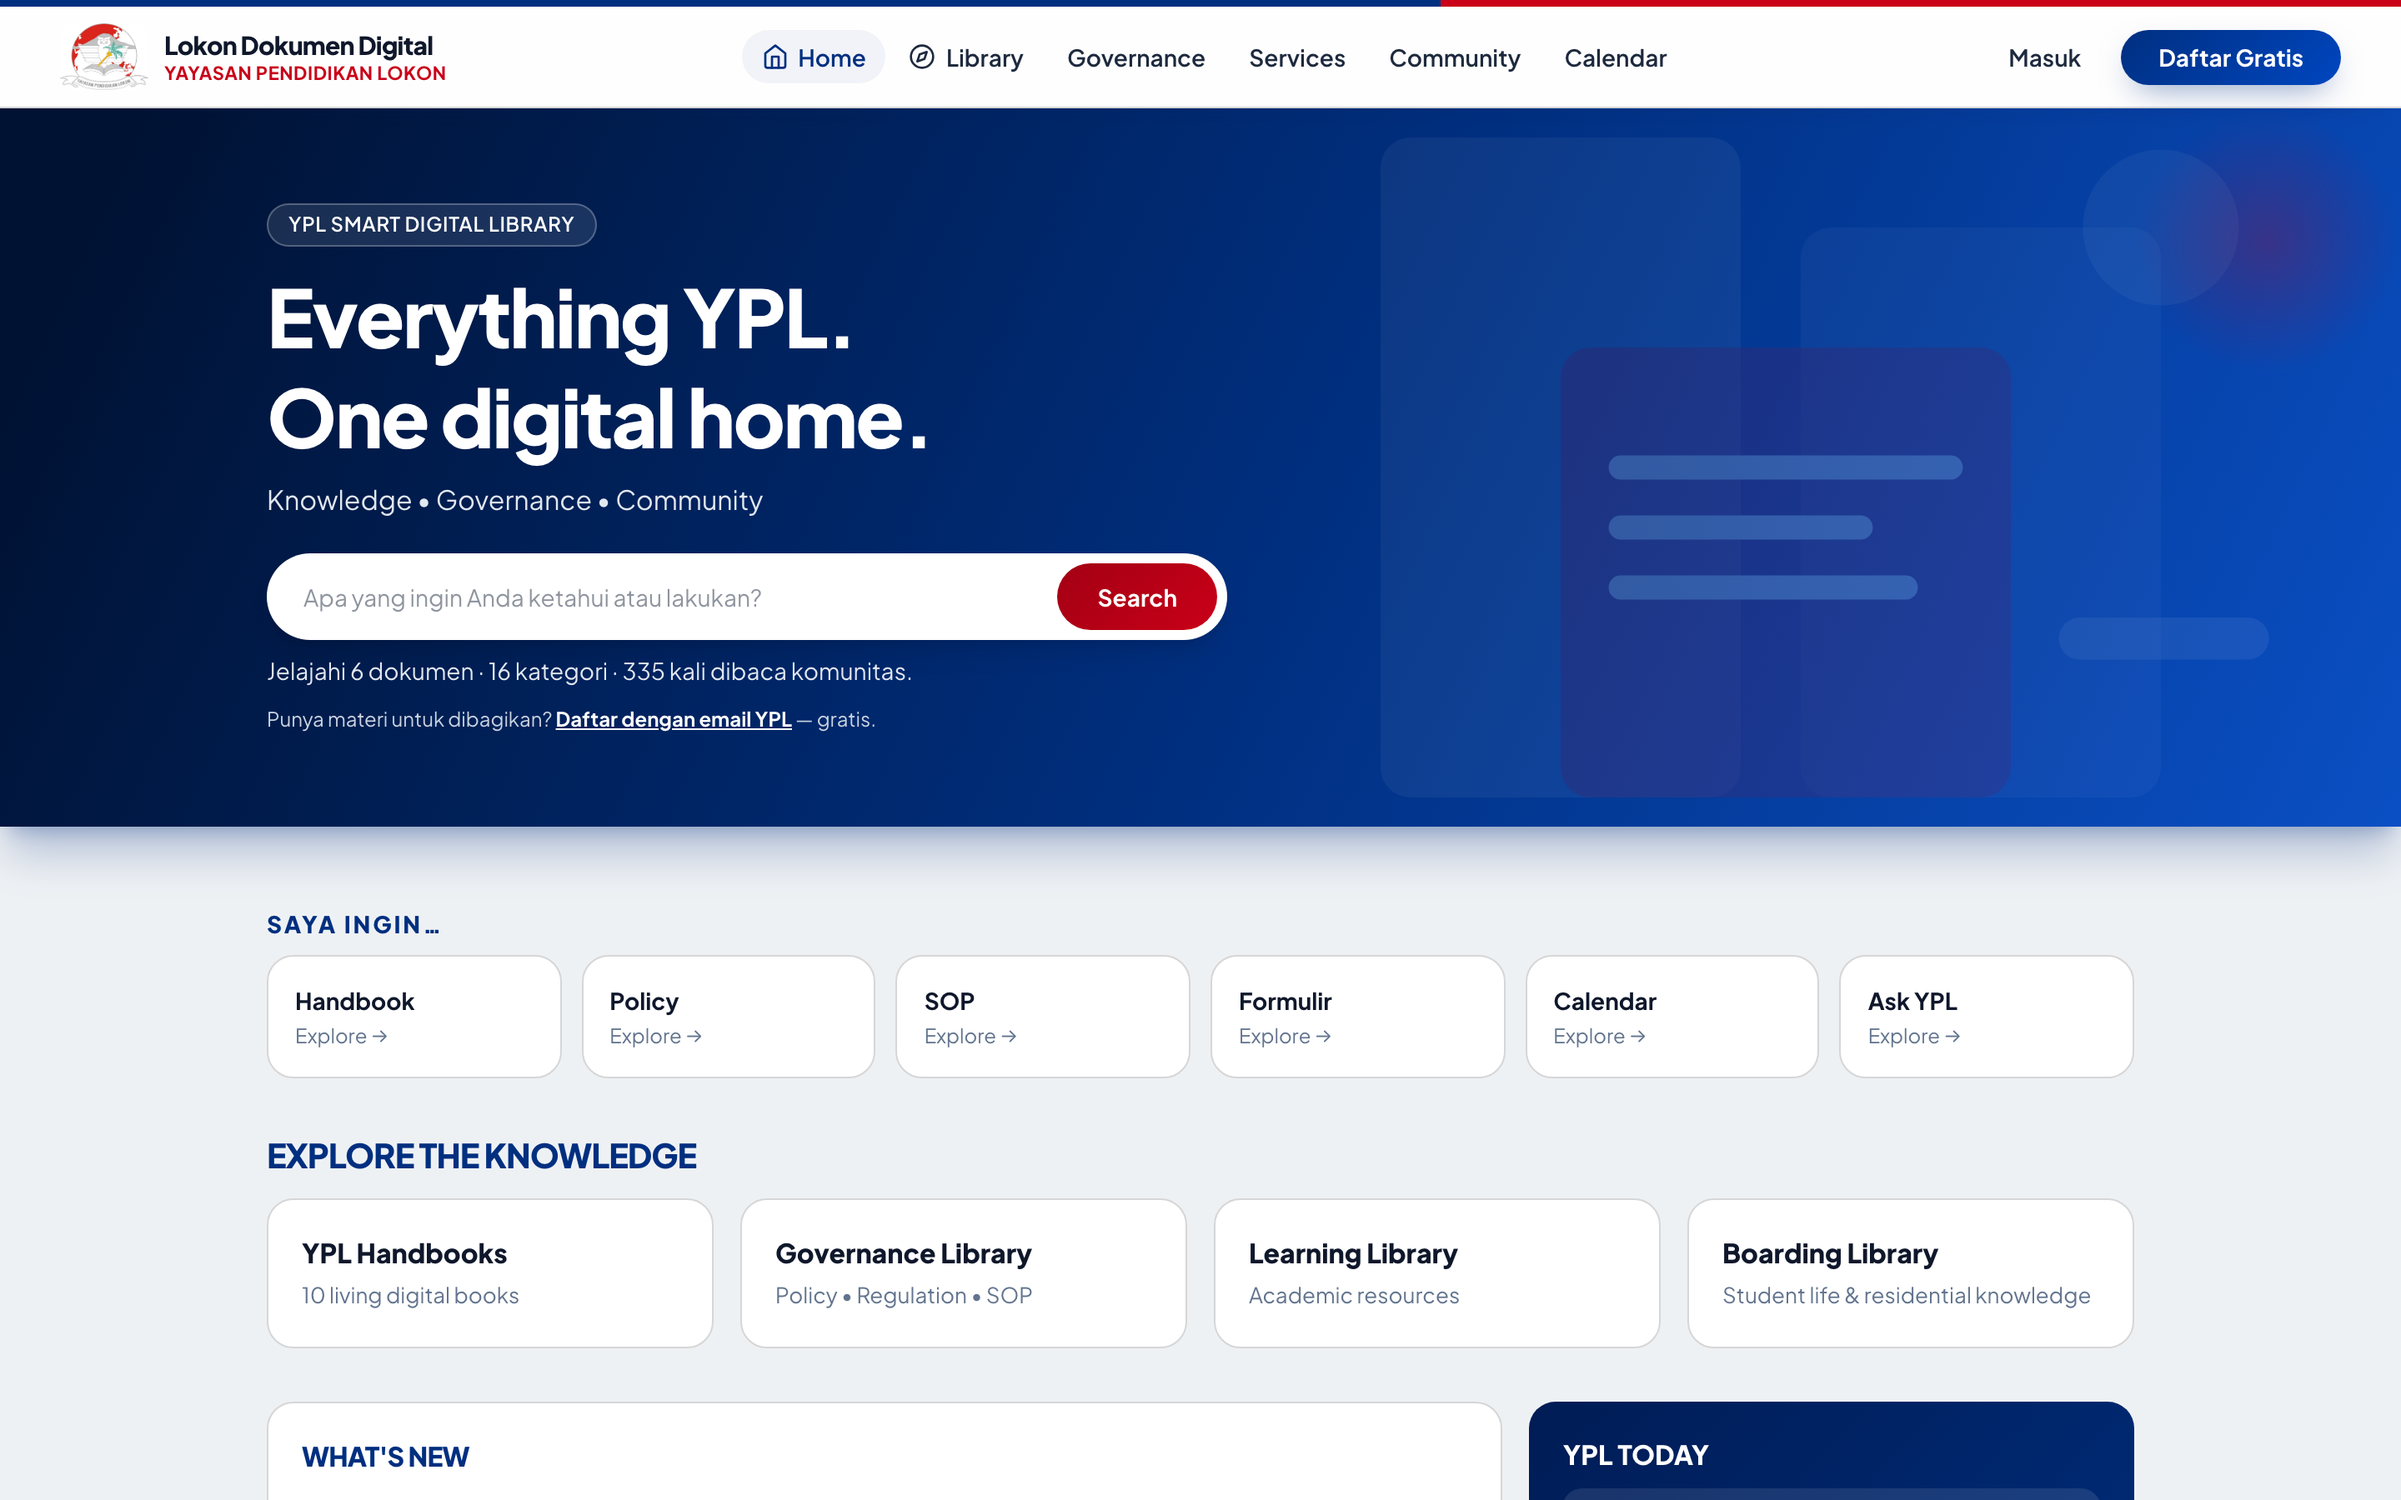
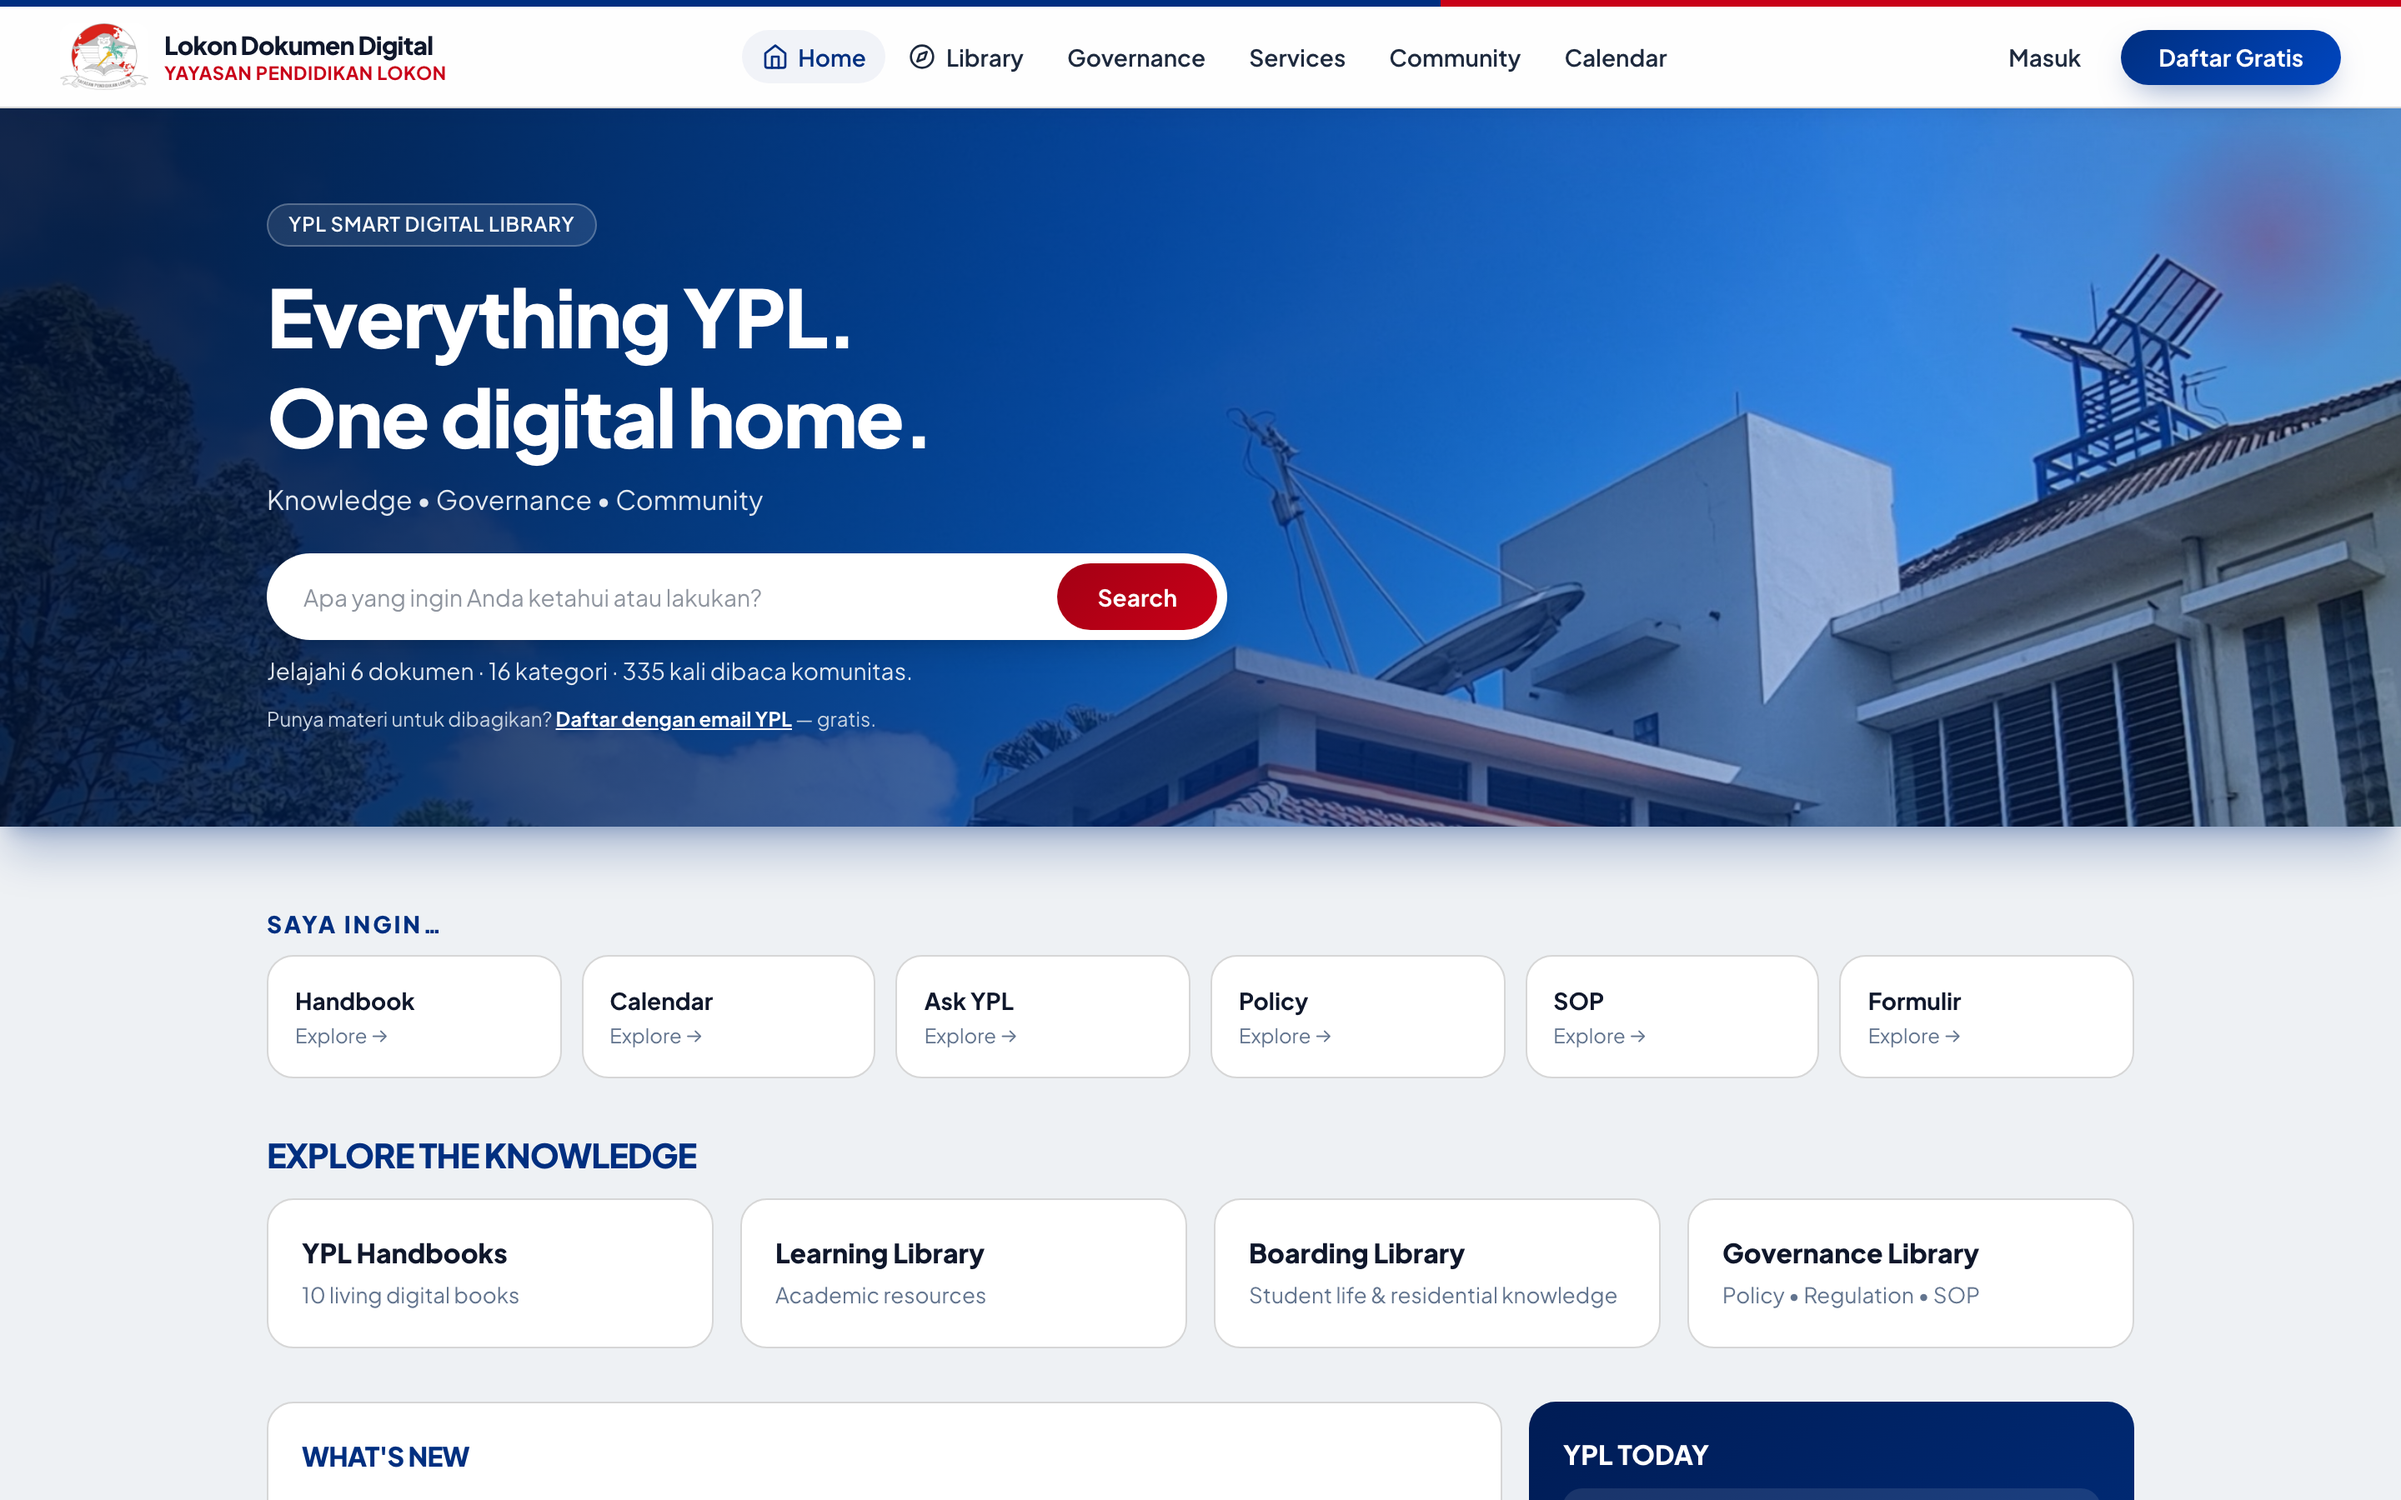
perf(analytics): index views_count untuk dokumen teratas

diff --git a/database/migrations/2026_10_12_064252_add_views_count_index_to_documents.php b/database/migrations/2026_10_12_064252_add_views_count_index_to_documents.php
@@ -1,0 +1,44 @@
+<?php
+
+use Illuminate\Database\Migrations\Migration;
+use Illuminate\Database\Schema\Blueprint;
+use Illuminate\Support\Facades\DB;
+use Illuminate\Support\Facades\Schema;
+
+return new class extends Migration
+{
+    /**
+     * Index untuk urutan popularitas (analytics dokumen teratas) —
+     * ganti filesort dengan index scan.
+     */
+    public function up(): void
+    {
+        Schema::table('documents', function (Blueprint $table) {
+            $table->index(['views_count']);
+        });
+
+        // SQLite me-rebuild tabel saat alter sehingga trigger FTS5 hilang.
+        if (Schema::getConnection()->getDriverName() === 'sqlite') {
+            DB::unprepared(<<<'SQL'
+                CREATE TRIGGER IF NOT EXISTS documents_ai AFTER INSERT ON documents BEGIN
+                  INSERT INTO documents_fts(rowid, title, description) VALUES (new.id, new.title, new.description);
+                END;
+                CREATE TRIGGER IF NOT EXISTS documents_ad AFTER DELETE ON documents BEGIN
+                  INSERT INTO documents_fts(documents_fts, rowid, title, description) VALUES('delete', old.id, old.title, old.description);
+                END;
+                CREATE TRIGGER IF NOT EXISTS documents_au AFTER UPDATE ON documents BEGIN
+                  INSERT INTO documents_fts(documents_fts, rowid, title, description) VALUES('delete', old.id, old.title, old.description);
+                  INSERT INTO documents_fts(rowid, title, description) VALUES (new.id, new.title, new.description);
+                END;
+                SQL);
+            DB::statement('INSERT INTO documents_fts(documents_fts) VALUES(?)', ['rebuild']);
+        }
+    }
+
+    public function down(): void
+    {
+        Schema::table('documents', function (Blueprint $table) {
+            $table->dropIndex(['views_count']);
+        });
+    }
+};

diff --git a/resources/views/home.blade.php b/resources/views/home.blade.php
@@ -1,18 +1,9 @@
 @extends('layout')
 @section('title', 'Beranda')
 @section('hero')
-{{-- Hero Library Mode: Everything YPL. One digital home. --}}
-<section class="w-full overflow-hidden text-white relative shadow-xl shadow-[#002f80]/25" style="background:linear-gradient(115deg,#001233 5%,#002f80 55%,#0a4fc4 100%)">
-  <div class="absolute inset-y-0 right-0 w-1/2 opacity-20 hidden md:block" aria-hidden="true">
-    <svg class="h-full w-full" viewBox="0 0 400 300" fill="none" preserveAspectRatio="xMidYMid slice">
-      <rect x="60" y="40" width="120" height="220" rx="10" fill="white" opacity=".25"/>
-      <rect x="200" y="70" width="120" height="190" rx="10" fill="white" opacity=".18"/>
-      <rect x="120" y="110" width="150" height="150" rx="10" fill="#c90018" opacity=".55"/>
-      <path d="M140 150h110M140 170h80M140 190h95" stroke="white" stroke-width="8" stroke-linecap="round" opacity=".9"/>
-      <circle cx="320" cy="70" r="26" fill="white" opacity=".25"/>
-      <rect x="286" y="200" width="70" height="14" rx="7" fill="white" opacity=".35"/>
-    </svg>
-  </div>
+{{-- Hero Library Mode: Everything YPL. One digital home. (foto gedung YPL) --}}
+<section class="w-full overflow-hidden text-white relative shadow-xl shadow-[#002f80]/25 bg-cover bg-center" style="background-attachment: fixed; background-image:url('{{ asset('images/hero-losnito.jpeg') }}')">
+  <div class="absolute inset-0" style="background:linear-gradient(100deg,rgba(0,18,51,.88) 5%,rgba(0,47,128,.72) 45%,rgba(10,79,196,.35) 75%,rgba(0,18,51,.25) 100%)" aria-hidden="true"></div>
   <div class="absolute top-0 right-0 w-40 h-40 rounded-full opacity-25" style="background:radial-gradient(circle,#c90018 0%,transparent 70%)" aria-hidden="true"></div>
   <div class="relative max-w-6xl mx-auto px-4 py-10 sm:py-14">
    <div class="max-w-2xl">
